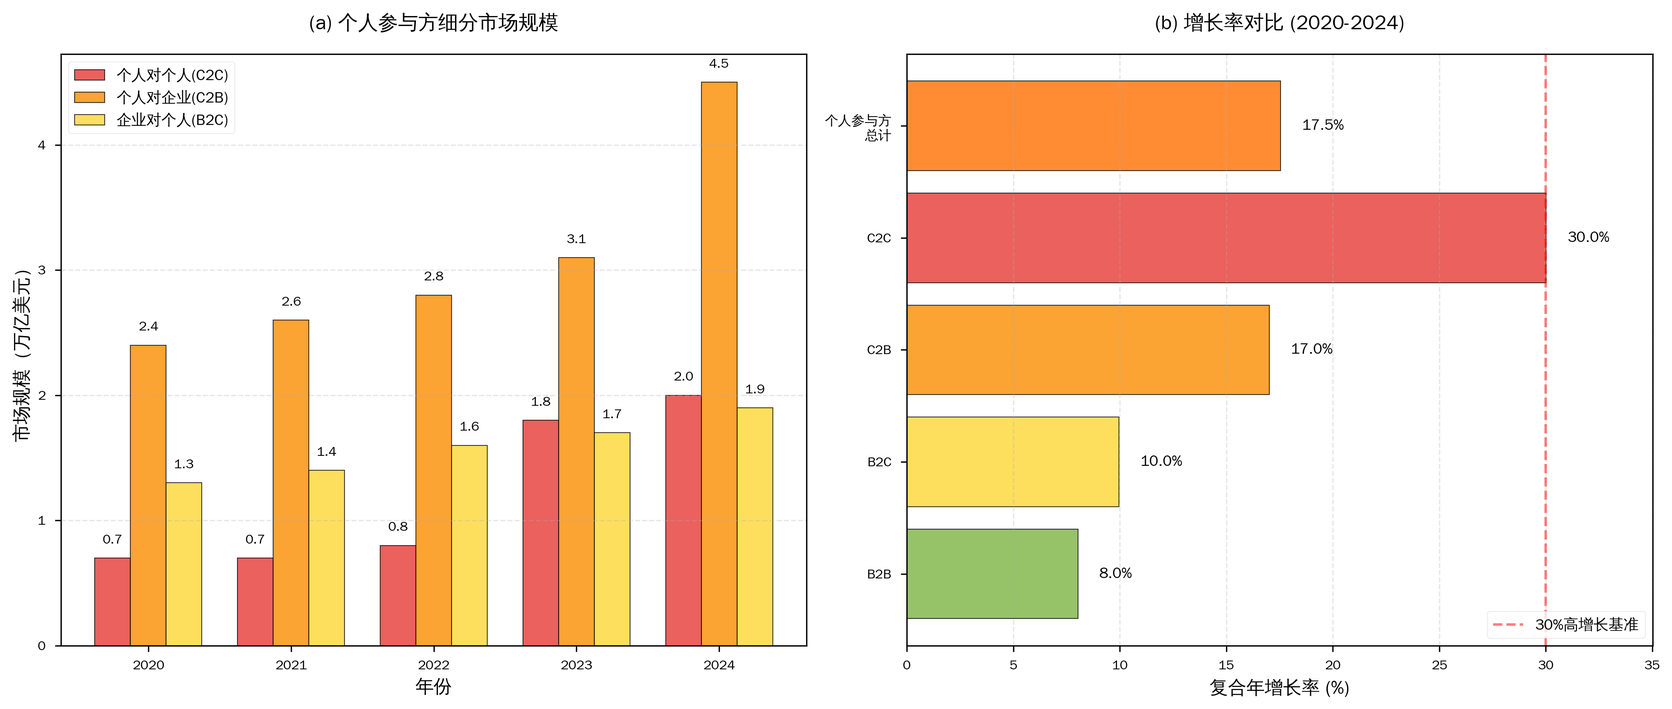
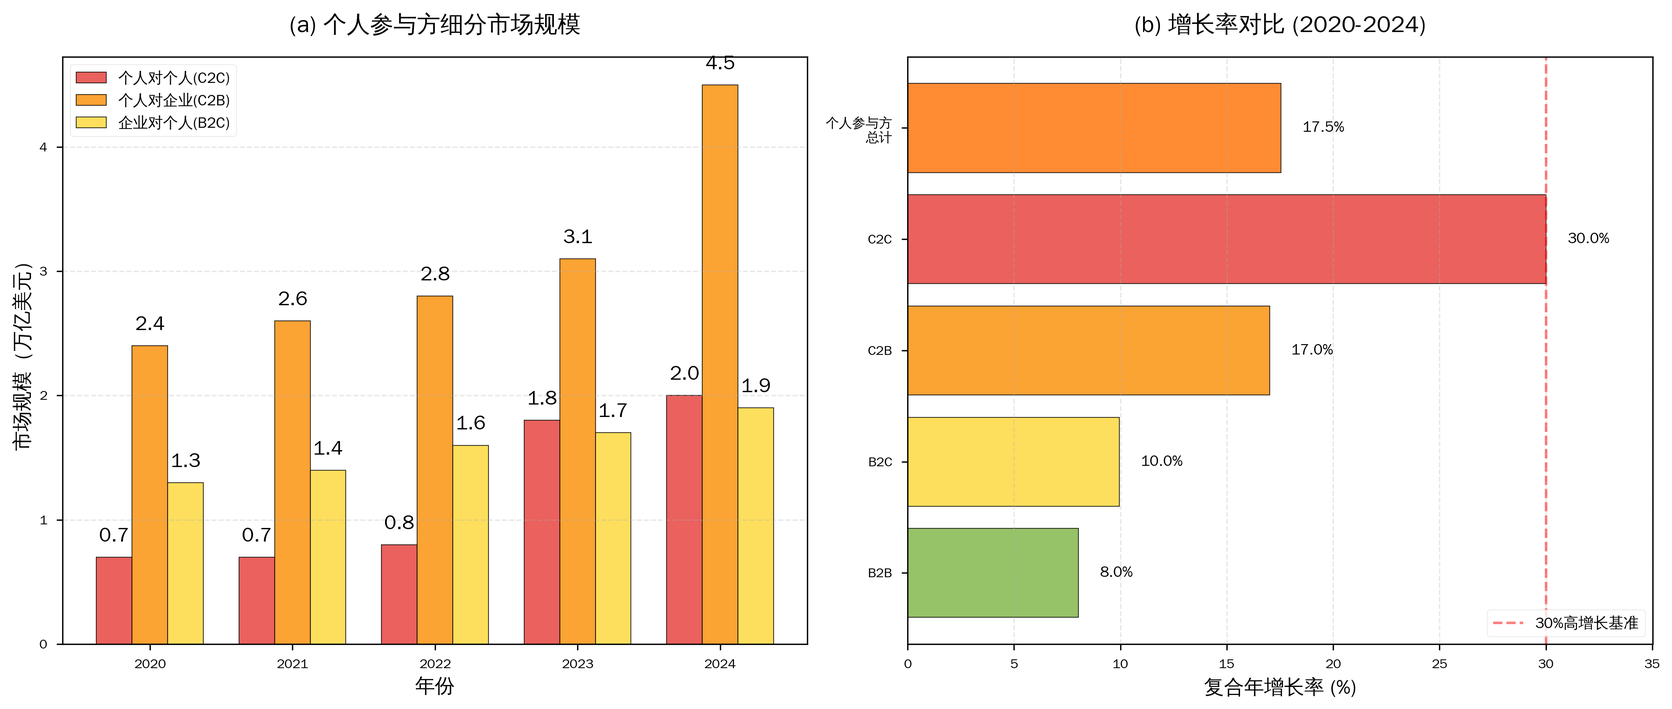
添加前期处理图片

diff --git a/scripts/plot_cross_border_individual_growth.py b/scripts/plot_cross_border_individual_growth.py
@@ -131,11 +131,11 @@ for bars in [bars_c2c, bars_c2b, bars_b2c]:
         if height > 0.5:  # 只标注较大的值，避免拥挤
             ax1_dual.text(bar.get_x() + bar.get_width()/2., height + 0.1,
                          f'{height:.1f}',
-                         ha='center', va='bottom', fontsize=8)
+                         ha='center', va='bottom', fontsize=12)
 
-ax1_dual.set_xlabel('年份', fontsize=11, fontweight='bold')
-ax1_dual.set_ylabel('市场规模（万亿美元）', fontsize=11, fontweight='bold')
-ax1_dual.set_title('(a) 个人参与方细分市场规模', fontsize=12, fontweight='bold', pad=15)
+ax1_dual.set_xlabel('年份', fontsize=12, fontweight='bold')
+ax1_dual.set_ylabel('市场规模（万亿美元）', fontsize=12, fontweight='bold')
+ax1_dual.set_title('(a) 个人参与方细分市场规模', fontsize=14, fontweight='bold', pad=15)
 ax1_dual.set_xticks(x)
 ax1_dual.set_xticklabels(years)
 ax1_dual.legend(loc='upper left', fontsize=9)
@@ -161,8 +161,8 @@ for i, (bar, cagr) in enumerate(zip(bars_cagr, cagrs)):
 ax2_dual.axvline(x=30, color='red', linestyle='--', linewidth=1.5, alpha=0.5,
                  label='30%高增长基准')
 
-ax2_dual.set_xlabel('复合年增长率 (%)', fontsize=11, fontweight='bold')
-ax2_dual.set_title('(b) 增长率对比 (2020-2024)', fontsize=12, fontweight='bold', pad=15)
+ax2_dual.set_xlabel('复合年增长率 (%)', fontsize=12, fontweight='bold')
+ax2_dual.set_title('(b) 增长率对比 (2020-2024)', fontsize=14, fontweight='bold', pad=15)
 ax2_dual.legend(loc='lower right', fontsize=9)
 ax2_dual.grid(axis='x', alpha=0.3, linestyle='--')
 ax2_dual.set_xlim(0, max(cagrs) + 5)

diff --git a/第六章-基于区块链的跨境支付效率普适性优化策略.md b/第六章-基于区块链的跨境支付效率普适性优化策略.md
@@ -308,6 +308,86 @@ Layer 2 的挑战在于用户体验与资产流动性。状态通道的资金需
 
 技术扩展性的前瞻性设计,本质上是为未来增长预留空间,避免"成功的陷阱"——技术方案因早期市场规模有限而采用保守设计,待市场爆发时发现扩展性不足,但技术架构已锁定,升级成本高昂。模块化架构、Layer 2 预留接口、动态资源分配的组合,使区块链跨境支付网络在保持当前阶段技术稳定性与成本可控的前提下,具备未来 10-100 倍扩展的潜力。第四章 4.3.1 节数据显示,Ripple 网络 13 年间 TPS 增长 80 倍,验证了渐进式扩展的可行性,但这一增长主要依赖共识算法优化与节点硬件升级,属于"垂直扩展"(Vertical Scaling),天花板明显;模块化与 Layer 2 属于"水平扩展"(Horizontal Scaling),理论上限更高,是长期战略的必然选择。
 
+### 6.2.3 互操作性与兼容性标准:打通遗留系统的桥梁
+
+第五章 5.2.2 节识别出遗留系统集成的 6-12 个月周期与数百万美元成本,构成金融机构采纳区块链跨境支付方案的重大障碍。MoneyNetInt 案例虽将集成周期压缩至 8 周,但这一成功依赖高度标准化的 API 接口与适配层设计,而非所有区块链支付网络均具备这一能力。互操作性与兼容性标准的制定,是将遗留系统集成从"定制化工程"转变为"即插即用"的关键,其本质是在价值链的"技术开发"环节嵌入标准化接口,降低金融机构的转换成本,加速市场采纳。
+
+**价值链视角下的系统集成成本分析**
+
+价值链分析框架(Porter, 1985)将企业活动划分为主要活动与支持活动,信息系统属于技术开发这一支持活动,支撑整个价值链的运作效率。在区块链跨境支付的价值链中,系统集成处于技术开发环节的核心位置——金融机构需将区块链支付网络与既有核心银行系统(Core Banking System)、SWIFT 接口、风控系统、合规系统对接,实现数据流转与业务协同。传统模式下,系统集成成本来源于三个子环节:开发成本(编写接口代码、数据格式转换、业务逻辑适配)、测试成本(功能测试、性能测试、安全测试、压力测试)、协调成本(技术团队、业务团队、合规团队的跨部门协作)。第五章 5.2.2 节数据显示,传统集成周期 6-12 个月,其中开发阶段占 40%(2.4-4.8 个月),测试阶段占 30%(1.8-3.6 个月),协调与审批占 30%(1.8-3.6 个月),综合费用数十万至数百万美元。
+
+价值链优化的策略聚焦成本沉淀最严重的开发环节。传统集成的高开发成本源于接口非标准化——每个区块链支付网络采用不同的消息格式、数据结构、通信协议,金融机构需为每个网络开发定制化接口,代码无法复用。MoneyNetInt 案例的成功在于采用 ISO 20022 标准,这一国际金融报文标准已被 SWIFT、CBDC、实时支付(RTP)系统广泛采用,金融机构的核心银行系统通常已支持 ISO 20022,接入 MoneyNetInt 时仅需配置参数而非重写代码,开发周期缩短至数周。因此,互操作性策略的核心是推动区块链支付网络采用 ISO 20022 或类似的国际标准,使"区块链支付"成为金融机构技术栈中的一个"标准模块",而非"外来异类"。
+
+**纵向互操作:区块链与传统系统的无缝对接**
+
+纵向互操作指区块链支付网络与金融机构既有系统(SWIFT、核心银行系统、风控系统)的技术对接。关键策略包括标准化 API 接口、适配层架构设计、事件驱动架构三个维度。标准化 API 接口的核心是采用 RESTful API 或 gRPC 等主流通信协议,遵循 OpenAPI 规范,提供清晰的接口文档与开发者工具包(SDK),降低金融机构的学习成本。区块链支付网络应提供与 SWIFT MT 报文、ISO 20022 报文的双向转换接口,金融机构发起跨境支付时,仍可使用熟悉的 SWIFT 格式,由适配层自动转换为区块链交易,接收行亦可接收 SWIFT 格式的到账通知,用户体验无需改变。MoneyNetInt 的成功验证了这一路径——金融机构员工在前端操作界面看到的仍是 SWIFT 代码与报文追踪功能,但后端实际走的是区块链网络,技术替换对用户透明。
+
+适配层架构设计是系统集成的核心技术方案。适配层(Adapter Layer)位于金融机构核心系统与区块链网络之间,承担消息格式转换、数据验证、错误处理、流量控制等功能。适配层可采用容器化部署(Docker、Kubernetes),金融机构仅需在内部网络部署适配层容器,配置区块链网络的连接参数,即可接入,部署周期缩短至数天。适配层的另一优势是隔离性——区块链网络的协议升级或技术变更,仅需更新适配层,金融机构核心系统无需改动,降低技术风险。Hyperledger Fabric 的通道(Channel)机制、Corda 的 CorDapp 架构均体现适配层设计理念,金融机构可根据业务需求定制适配层,兼顾标准化与灵活性。
+
+事件驱动架构(Event-Driven Architecture)进一步提升集成效率。传统批处理模式下,金融机构定期(如每小时)向 SWIFT 网络发送批量支付指令,时效性受限。事件驱动架构允许金融机构在支付指令发起时,实时触发区块链交易,适配层监听核心银行系统的支付事件,自动调用区块链网络的转账接口,无需人工干预。这一模式与区块链的实时清算特性高度契合,最大化时效优势。同时,事件驱动架构支持异步处理与重试机制——若区块链网络暂时拥堵或故障,适配层可将交易暂存队列,待网络恢复后自动重发,提升系统鲁棒性。
+
+**横向互操作:不同区块链网络的跨链协同**
+
+横向互操作指不同区块链支付网络之间的互联互通,使金融机构可在 Ripple、Stellar、mBridge 等多个网络间自由选择或组合使用,避免被单一网络锁定。跨链协议(Cross-Chain Protocol)是实现横向互操作的核心技术,主流方案包括 Cosmos IBC(跨链通信协议)、Polkadot XCMP(跨链消息传递协议)、原子交换(Atomic Swap)等。IBC 允许不同区块链网络在保持主权独立的前提下,通过中继链(Relay Chain)传递消息与资产,已在 Cosmos 生态内的数十条区块链间实现互操作;XCMP 采用平行链(Parachain)架构,Polkadot 作为中继链协调多条平行链的跨链交易,兼顾安全性与效率;原子交换通过智能合约与哈希时间锁定(HTLC)机制,实现无需中介的跨链资产兑换,比特币与莱特币、以太坊与 ERC-20 代币间均已实现原子交换。
+
+跨境支付场景的跨链需求聚焦资产互换与流动性共享。金融机构可能同时接入 Ripple(服务美墨走廊)与 Stellar(服务非洲市场),若某笔支付的发送方在 Ripple 网络、接收方在 Stellar 网络,跨链协议可实现两个网络的资产桥接,用户无需手动在两个网络间转移资金。流动性共享指做市商可在多个网络间调配流动性——若 Ripple 网络的某货币对流动性不足,做市商可从 Stellar 网络调入流动性,通过跨链协议实现,降低单一网络流动性不足的风险。mBridge 项目已探索与 Ripple、Stellar 的跨链互操作,试图构建全球 CBDC 与私营区块链支付网络的互联生态,虽仍处于试验阶段,但方向具备战略意义。
+
+跨链桥(Cross-Chain Bridge)是当前主流的跨链技术方案,但存在安全性与中心化风险。跨链桥通过在两条链上部署智能合约,锁定源链资产、铸造目标链资产,实现资产跨链转移。然而,跨链桥成为攻击的重点目标——2022 年 Ronin 跨链桥被盗 6.2 亿美元、Wormhole 跨链桥被盗 3.2 亿美元,暴露出跨链桥的验证节点集中化风险(通常由数个多签节点控制,易被攻破)。跨境支付对安全性要求极高,跨链桥方案需强化安全机制——采用多签+门限签名(Threshold Signature)提升节点攻击难度,引入保险机制覆盖跨链损失,限制单笔跨链金额上限,降低损失风险。长期而言,零知识证明(ZKP)驱动的跨链方案(如 zkBridge)可实现无需信任的跨链验证,安全性更高,是未来方向。
+
+**行业标准制定的多方协作机制**
+
+互操作性标准的制定非单一企业可推动,需国际组织、监管机构、行业协会、技术提供商的多方协作。ISO(国际标准化组织)与 BIS(国际清算银行)在跨境支付标准制定中发挥主导作用,ISO 20022 已被 G20 确定为跨境支付的统一报文标准,2025 年起 SWIFT 网络全面迁移至 ISO 20022,为区块链支付网络的标准化对接创造窗口期。区块链支付网络应主动参与 ISO 工作组,推动将区块链特定需求(如智能合约参数、链上交易哈希)纳入 ISO 20022 扩展字段,确保标准的前瞻性与兼容性。
+
+开源社区在标准实施中扮演关键角色。Hyperledger 基金会、企业以太坊联盟(EEA)、区块链互操作性联盟(BIA)等组织,汇聚技术企业、金融机构、研究机构,共同制定开源的互操作性协议与参考实现。开源模式降低标准采纳的门槛——金融机构可直接使用开源的适配层代码,无需从零开发,缩短集成周期;技术提供商可基于开源协议开发增值服务(如合规插件、风控模块),形成生态。Ripple 的 Interledger 协议(ILP)即为开源跨链支付协议,Stellar、mBridge 等项目均可采用 ILP 实现互操作,虽当前采纳率有限,但开源策略有助于标准推广。
+
+监管机构的认证与推广是标准落地的制度保障。新加坡金融管理局(MAS)、英国金融行为监管局(FCA)的监管沙盒项目,鼓励区块链支付网络测试与传统系统的互操作性,通过沙盒测试的方案可获得监管批准,成为行业参考标准。欧盟 MiCA(加密资产市场监管法案)要求加密资产服务商遵守技术标准,未来可能强制要求区块链支付网络支持 ISO 20022,标准化进程提速。中国人民银行推动的数字人民币(e-CNY)跨境试点,亦强调与国际标准的兼容性,为区块链支付网络提供参考范式。
+
+互操作性与兼容性标准的战略意义在于,它将区块链支付从"颠覆性创新"转变为"持续性创新"——不要求金融机构放弃既有系统,而是在既有系统基础上"插入"区块链模块,降低采纳风险与转换成本。价值链分析揭示,系统集成成本在金融机构总拥有成本(TCO)中占比 30-40%,标准化可将这一成本降低 50-70%,显著提升区块链支付的投资回报率,加速市场渗透。
+
+### 6.2.4 安全性与隐私保护的技术框架:合规约束下的创新平衡
+
+第五章 5.2.3 节识别出量子计算威胁、51%攻击风险、智能合约漏洞等技术安全挑战,5.3.2 节揭示 GDPR"被遗忘权"与区块链不可篡改性的根本性冲突。安全性与隐私保护的技术框架设计,需在法律合规约束下实现技术创新,既满足监管机构对数据保护、反洗钱、交易可追溯的要求,又保障用户隐私与系统安全,这一平衡是区块链跨境支付方案获得监管批准与用户信任的制度前提。
+
+**PESTEL 视角下的法律-技术交叉约束**
+
+PESTEL 分析框架(Political, Economic, Social, Technological, Environmental, Legal)从宏观环境六个维度评估企业面临的外部约束。在区块链跨境支付场景,法律(Legal)与技术(Technological)的交叉约束最为显著——技术设计受法律框架约束,法律框架需适应技术创新。GDPR 是全球最严格的数据保护法规,第 17 条赋予数据主体"被遗忘权"(删除个人数据的权利),但区块链的不可篡改特性意味着链上数据永久保存,技术与法律的矛盾无法通过单纯的技术手段化解,需通过分层架构设计实现妥协——链上仅存匿名化数据,个人信息存储链下,满足"被遗忘权"同时保留区块链的审计追踪能力。
+
+中国《数据安全法》与俄罗斯《数据本地化法》要求个人信息存储境内,禁止或限制跨境传输,但区块链的全局账本特性要求验证节点分布多国,数据天然跨境。技术应对策略包括区域账本隔离(为数据本地化国家部署独立账本,与全局账本通过跨链协议关联)、加密传输(个人信息在跨境传输前加密,仅授权方可解密)、监管节点本地化(在数据本地化国家部署监管节点,实时查询涉及本国公民的交易,无需数据出境)。mBridge 项目的监管节点设计即体现这一理念——泰国央行、中国人民银行、香港金管局、阿联酋央行各自运行监管节点,实时查询涉及本国货币的跨境交易,数据主权得以保障。
+
+法律不确定性是技术设计的重大挑战。GDPR 对"匿名化"的界定标准极为严格——需确保数据无法通过任何合理手段重新识别,但何为"合理手段"存在法律解释空间。若链上地址可通过结合 KYC 数据库重新识别,监管机构可能认定匿名化不成立,链上数据构成"个人数据",需满足 GDPR 全部要求(包括被遗忘权),区块链技术不可行。应对策略是主动与欧盟数据保护机构沟通,提交数据保护影响评估(DPIA),论证链上地址经过哈希处理、加密映射后,在技术上无法单凭链上数据重新识别,仅在司法程序授权下,金融机构方可通过链下数据库查询对应身份,这一设计符合 GDPR"合理手段"标准。法律确定性的提升需要监管机构的明确指引,区块链行业应通过行业协会、政策游说,推动监管机构出台区块链数据保护的专项规则,化解法律风险。
+
+**多层次安全框架:纵深防御的技术实现**
+
+多层次安全框架采用"纵深防御"(Defense in Depth)理念,在密码学层、共识层、应用层构建三道防线,即便某层被突破,其他层仍可提供保护。密码学层是第一道防线,核心是抗量子密码算法的部署。第五章 5.2.3 节指出,量子计算对椭圆曲线密码(ECC)与 RSA 密码构成威胁,现有区块链的签名算法(如 ECDSA)可能在量子计算机面世后被破解。应对策略是迁移至抗量子密码算法,如基于格的密码学(Lattice-Based Cryptography)、基于哈希的签名(Hash-Based Signatures)、多变量密码学(Multivariate Cryptography),这些算法已被 NIST(美国国家标准与技术研究院)纳入后量子密码标准候选,预计 2030 年前完成标准化。区块链支付网络应在设计之初预留密码算法的可升级接口,支持平滑迁移至抗量子算法,避免未来被迫进行全网硬分叉升级(风险高、协调难度大)。
+
+共识层是第二道防线,核心是拜占庭容错(BFT)阈值的优化设计。BFT 共识算法(如 PBFT、Tendermint、Ripple RPCA)可容忍 f < n/3 的恶意节点(n 为总节点数,f 为恶意节点数),即若验证节点总数 30 个,最多容忍 9 个恶意节点,安全性高于工作量证明(PoW)的 51%攻击阈值。但 BFT 的安全性依赖节点身份认证与准入控制,若恶意方通过女巫攻击(Sybil Attack)创建大量虚假节点,可能突破 f < n/3 限制。应对策略是质押(Staking)机制与声誉系统(Reputation System)——验证节点需质押大额资金方可参与共识,恶意行为导致质押资金被罚没(Slashing),提高攻击成本;声誉系统记录节点的历史行为,声誉低的节点被限制投票权,激励节点诚实行为。以太坊 2.0 的质押机制要求验证节点质押 32 ETH(约数万至数十万美元),Cosmos 的声誉系统根据节点的出块稳定性、投票一致性动态调整权重,均验证了这一路径的有效性。
+
+应用层是第三道防线,核心是形式化验证(Formal Verification)消除智能合约漏洞。智能合约的逻辑漏洞(如重入攻击、整数溢出、权限控制缺陷)可能导致资金被盗,2016 年 The DAO 被盗 6000 万美元、2021 年 Poly Network 被盗 6.1 亿美元,均源于智能合约漏洞。形式化验证通过数学证明,验证智能合约在任何输入条件下均符合预期行为,消除逻辑漏洞。Certora、Runtime Verification 等工具可对智能合约进行形式化验证,生成数学证明报告,通过验证的合约可获得安全认证标识,提升用户信任。跨境支付的智能合约涉及资金转移、汇率计算、手续费扣除等关键逻辑,需强制通过形式化验证方可部署,降低安全风险。
+
+三层防御的协同效应在于,即便某层被突破,其他层仍可限制损失范围。假设量子计算突破密码学层,攻击者伪造交易签名,但共识层的 BFT 机制要求 2/3 节点验证通过,若攻击者未控制 2/3 节点,伪造交易仍被拒绝;假设攻击者通过女巫攻击控制 2/3 节点,应用层的智能合约仍可限制单笔交易金额上限、设置异常交易冻结机制,降低损失。多层次框架的成本在于技术复杂度与运营开销提升,但第四章 4.3.1 节数据显示,XRPL 运行 13 年无重大安全事故,验证了多层次安全框架的有效性与必要性。
+
+**隐私保护与监管合规的技术平衡方案**
+
+隐私保护与监管合规的核心矛盾在于,隐私要求交易匿名,监管要求交易可追溯。传统区块链采用地址匿名化——用户使用公钥地址进行交易,地址不包含身份信息,但所有交易公开可查,监管机构可通过区块链分析工具(Chainalysis、Elliptic)追踪资金流向,必要时通过交易所 KYC 数据查询地址对应身份。这一模式在一定程度上平衡了隐私与监管,但仍存在隐私泄露风险——用户的全部交易历史公开,可能被恶意方分析消费习惯、资产规模,侵犯隐私。
+
+零知识证明(Zero-Knowledge Proof, ZKP)提供更强的隐私保护。ZKP 允许证明方向验证方证明某命题为真,但不透露任何额外信息。在跨境支付场景,发送方可通过 ZKP 证明"我已通过 KYC 认证"、"交易金额在合规范围内",但不透露具体身份、交易金额,验证方(监管节点、接收行)仅需验证证明有效性,无需获取敏感信息。Zcash 的 zk-SNARKs 协议、Monero 的环签名(Ring Signature)均实现交易隐私保护,虽在加密货币领域应用广泛,但在跨境支付场景面临监管阻力——完全匿名的交易可能被用于洗钱、恐怖融资,监管机构倾向于禁止。
+
+链上匿名化+链下实名的分层架构是当前可行的平衡方案。链上仅记录交易元数据(地址、金额、时间戳、交易哈希),不包含个人身份信息(姓名、地址、身份证号),经过匿名化处理,符合 GDPR"非个人数据"定义。个人身份信息存储于金融机构的链下数据库,通过加密哈希将链下身份与链上地址映射,需要时(如监管审计、司法调查)通过映射查询。这一设计的优势在于:链下数据可应用户要求删除,满足 GDPR"被遗忘权";链上数据不可篡改,保留审计追踪能力;监管机构通过监管节点的特权访问,可在法律授权下查询链下数据,追溯交易方身份,满足反洗钱要求。
+
+监管节点的特权访问机制是分层架构的制度保障。监管节点由监管机构运行,持有解密密钥,可在法律授权下(如法院令状、反洗钱调查)查询链下数据库,获取交易方身份。特权访问需满足三个条件:法律授权(非经司法程序不得查询,防止滥用)、审计追踪(所有监管查询记录于不可篡改日志,接受监督)、最小化原则(仅查询与调查相关的数据,不得过度收集)。Corda 的"需知原则"(Need-to-Know Basis)设计即体现这一理念——交易仅在相关方(发送方、接收方、监管节点)之间共享,非相关方无法查看,平衡隐私与监管。mBridge 的监管节点可实时查询涉及本国货币的跨境交易,但无法查询其他国家货币的交易,数据访问权限精准控制。
+
+隐私与合规平衡的挑战在于监管节点权力边界的法律界定。过度授权导致监管节点侵犯隐私、泄露商业秘密,授权不足导致监管失效、洗钱风险上升。法律框架需明确监管节点的触发条件(何种情况下可查询)、操作流程(如何申请授权)、问责机制(滥用权力的法律后果)。欧盟 MiCA 法案、新加坡 MAS 的支付服务法案均在探索这一法律框架,为区块链支付网络提供合规范本。
+
+**应急响应与业务连续性的保障机制**
+
+安全框架不仅需要事前预防,更需要事后应急响应与业务连续性保障。智能合约保险机制覆盖技术故障导致的资金损失——若因智能合约漏洞、共识机制失效、验证节点攻击导致用户资金损失,保险基金提供赔偿。Nexus Mutual、InsurAce 等去中心化保险协议,允许用户为智能合约购买保险,保费根据合约风险评级动态调整,赔付通过智能合约自动执行,降低理赔摩擦。跨境支付网络可强制要求高风险合约购买保险,或由网络运营方(如 Ripple Labs)建立保险基金,提升用户信心。
+
+业务连续性计划(BCP)确保主节点故障时,备份节点自动接管,网络不中断。区块链的分布式特性天然具备高可用性——任一节点故障,其他节点继续运作,网络整体不受影响。但若多数节点同时故障(如网络攻击、自然灾害),网络可能陷入停滞。BCP 策略包括地理分散部署(验证节点分布多国多地区,降低单点故障风险)、冗余备份(关键节点配置热备份,主节点故障时秒级切换)、灾难恢复演练(定期模拟节点故障、网络分裂等极端场景,测试应急响应能力)。第四章 4.3.1 节数据显示,XRPL 的账本间隔稳定在 3.9 秒,13 年间无重大中断,验证了业务连续性机制的有效性。
+
+用户赔偿机制是信任建立的最后一道防线。若因系统故障、安全事件导致用户损失,金融机构或网络运营方需提供赔偿,赔偿标准、流程、时限需在用户协议中明确约定,透明化处理降低纠纷风险。传统金融机构受存款保险制度(如美国 FDIC 25 万美元保险)保护,区块链支付网络虽无类似制度,但可通过商业保险、自有资本储备提供保障,提升用户信任。
+
+安全性与隐私保护的技术框架,本质上是在法律合规约束下,通过技术创新实现"有限隐私+可控监管"的平衡。PESTEL 分析揭示,法律环境的约束力强,技术设计需主动适应,而非对抗。分层架构、监管节点、零知识证明的组合,使区块链跨境支付在保障用户隐私的同时,满足监管机构的反洗钱、数据保护、交易可追溯要求,这一平衡是区块链支付获得监管批准、进入主流金融市场的制度前提。
+
 ## 6.3 打造多方参与的价值共同体:生态网络与激励机制
 
 (待撰写,4000-5000 字)
